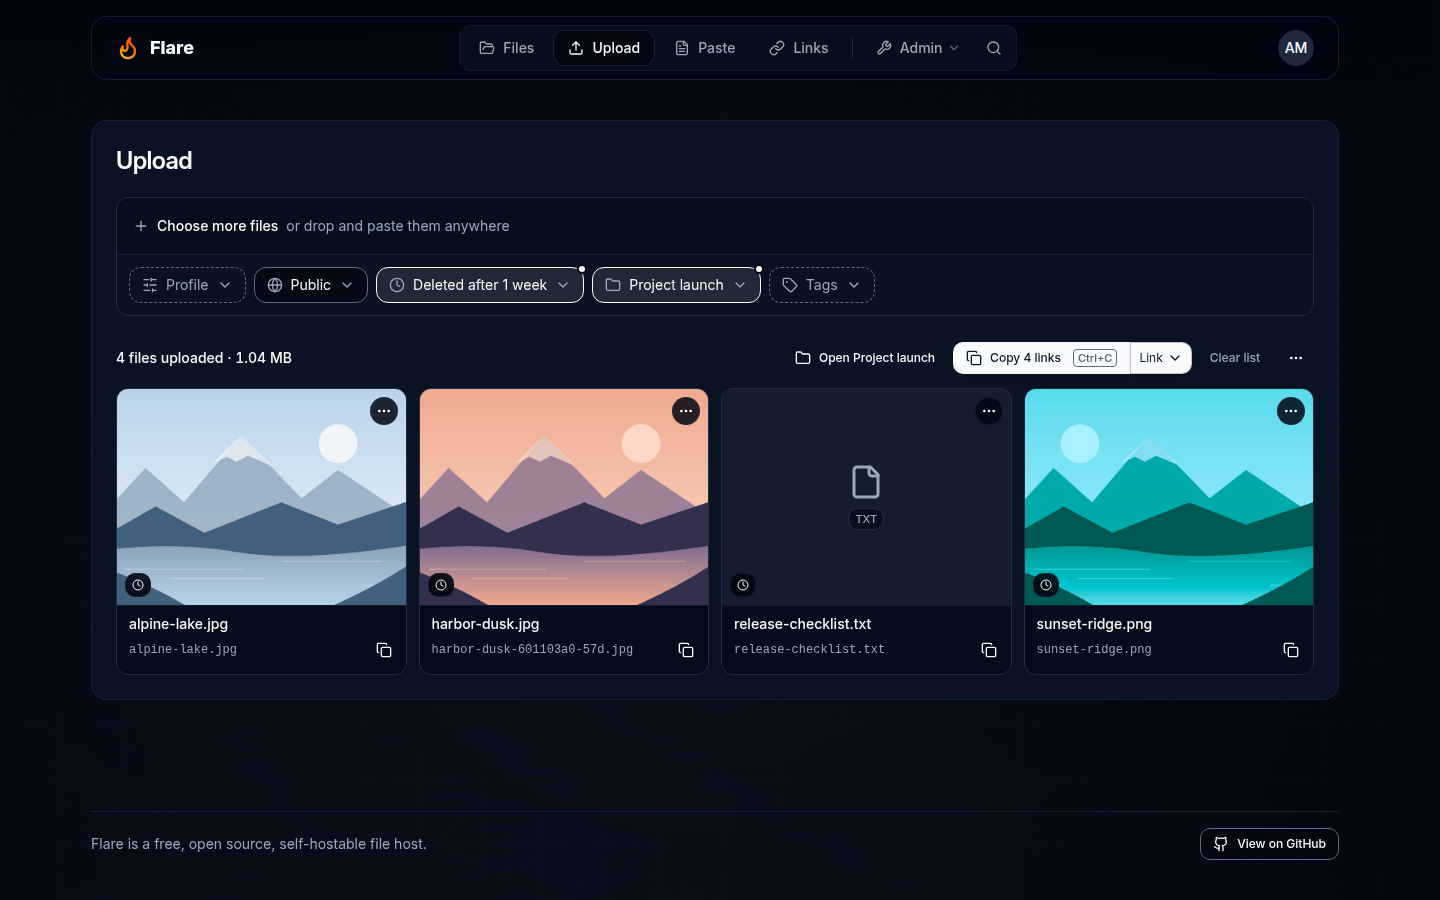
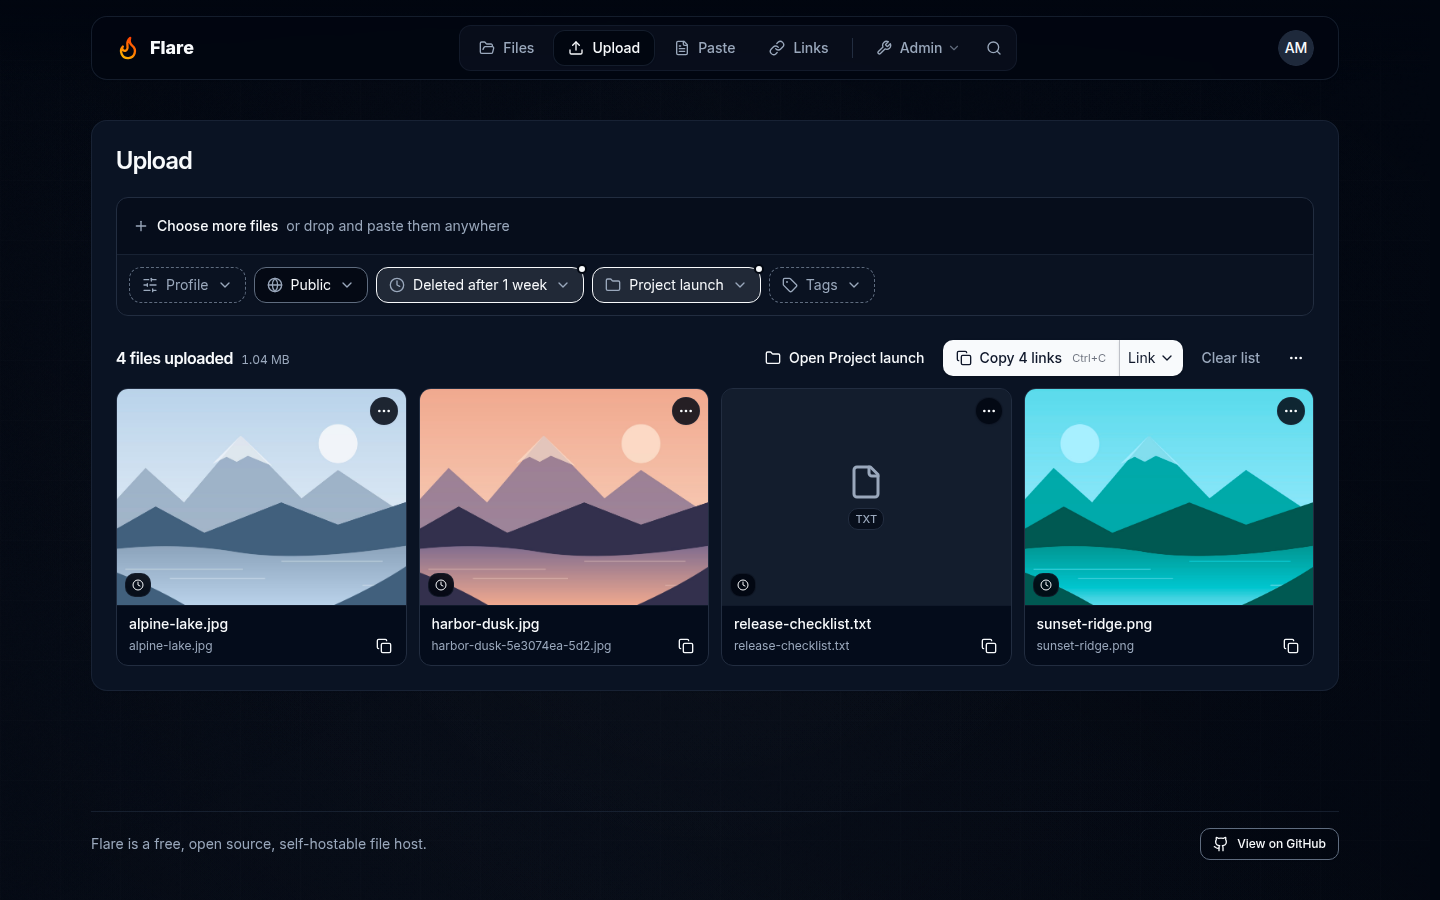
fix(upload): give the Upload tab a type scale
Below the page title everything sat at 14px, so the batch heading read as
body text and Copy was smaller than the chips. The batch heading is now a
16px section heading with its size, speed or failures quieter beside it,
Earlier a sub-heading, the batch actions full-size, card meta the same
small muted sans as Files, and a failure's technical detail muted under its
cause. The speed shows once, in the heading.

diff --git a/components/upload/upload-form.tsx b/components/upload/upload-form.tsx
@@ -522,21 +522,29 @@ export function UploadForm({
   )
 
   const waiting = newest.filter(({ status }) => status === 'waiting').length
-  const status = held.length
-    ? `${files(held.length)} waiting`
+  // The batch's heading says where it stands; the detail beside it is quieter.
+  const [status, detail]: [string, string | null] = held.length
+    ? [`${files(held.length)} waiting`, null]
     : paused
-      ? `Paused · ${waiting} waiting`
+      ? ['Paused', `${waiting} waiting`]
       : going
         ? [
             `Uploading ${Math.min(done.length + failedCount + 1, newest.length)} of ${newest.length}`,
-            sending?.speed ? formatSpeed(sending.speed) : null,
-            sending?.speed ? remaining((total - sent) / sending.speed) : null,
+            sending?.speed
+              ? [
+                  formatSpeed(sending.speed),
+                  remaining((total - sent) / sending.speed),
+                ]
+                  .filter(Boolean)
+                  .join(' · ')
+              : null,
           ]
-            .filter(Boolean)
-            .join(' · ')
         : failed
-          ? `${done.length} of ${newest.length} uploaded · ${failedCount} failed`
-          : `${files(done.length)} uploaded · ${formatBytes(total)}`
+          ? [
+              `${done.length} of ${newest.length} uploaded`,
+              `${failedCount} failed`,
+            ]
+          : [`${files(done.length)} uploaded`, formatBytes(total)]
   const publicDone = done.filter(
     (file) => file.outcome?.visibility === 'PUBLIC' && file.result?.id
   )
@@ -615,7 +623,7 @@ export function UploadForm({
               <Plus className="h-4 w-4" aria-hidden="true" />
               Choose files
             </Button>
-            <p className="mt-3 text-sm text-muted-foreground">
+            <p className="mt-2 text-xs text-muted-foreground">
               Up to {formatBytes(maxSize)} each
             </p>
             {tips && <UploadTips shown={tips} onHide={() => void hideTips()} />}
@@ -654,9 +662,22 @@ export function UploadForm({
           <div className="flex min-h-9 flex-wrap items-center justify-between gap-x-3 gap-y-2">
             <h2
               id="upload-batch-heading"
-              className="min-w-0 text-sm font-medium tabular-nums"
+              className="min-w-0 text-base font-semibold tracking-tight tabular-nums"
             >
               {status}
+              {detail && (
+                <span
+                  className={cn(
+                    'ml-2 text-xs font-normal tracking-normal',
+                    failed && !going && !held.length && !paused
+                      ? 'font-medium text-destructive'
+                      : 'text-muted-foreground'
+                  )}
+                >
+                  <span className="sr-only">, </span>
+                  {detail}
+                </span>
+              )}
             </h2>
             <p className="sr-only" aria-live="polite">
               {done.length
@@ -668,7 +689,7 @@ export function UploadForm({
             </p>
             <div className="flex w-full flex-wrap items-center gap-1.5 sm:w-auto">
               {batchFolder && done.length > 0 && (
-                <Button asChild variant="ghost" size="sm">
+                <Button asChild variant="ghost" className="px-3">
                   <Link href={libraryHref({ folder: batchFolder.id })}>
                     <Folder className="h-4 w-4" aria-hidden="true" />
                     Open {batchFolder.name}
@@ -677,8 +698,8 @@ export function UploadForm({
               )}
               {pausedBy !== null && (
                 <Button
-                  size="sm"
                   variant="outline"
+                  className="px-3"
                   onClick={() => tray.retry(pausedBy)}
                 >
                   <RotateCw className="h-4 w-4" aria-hidden="true" />
@@ -687,7 +708,7 @@ export function UploadForm({
               )}
               {held.length > 0 ? (
                 <Button
-                  size="sm"
+                  className="px-3"
                   disabled={'held' in settings}
                   onClick={() => tray.release(settings)}
                 >
@@ -698,13 +719,12 @@ export function UploadForm({
                 done.length > 0 && (
                   <div className="flex flex-1 items-center sm:flex-none">
                     <Button
-                      size="sm"
-                      className="flex-1 rounded-r-none focus-visible:z-10 sm:flex-none"
+                      className="flex-1 rounded-r-none px-3 focus-visible:z-10 sm:flex-none"
                       onClick={() => void copy(done)}
                     >
                       <Copy className="h-4 w-4" aria-hidden="true" />
                       {copyLabel}
-                      <kbd className="ml-1 hidden rounded border border-current/30 px-1 font-sans text-[11px] leading-4 opacity-70 [@media(pointer:fine)]:sm:inline">
+                      <kbd className="ml-0.5 hidden font-sans text-[11px] font-normal leading-4 opacity-60 [@media(pointer:fine)]:sm:inline">
                         {copyKey}
                       </kbd>
                     </Button>
@@ -719,8 +739,7 @@ export function UploadForm({
               {finished && (
                 <Button
                   variant="ghost"
-                  size="sm"
-                  className="text-muted-foreground max-sm:hidden"
+                  className="px-3 text-muted-foreground max-sm:hidden"
                   onClick={() => tray.clear()}
                   title="Uploaded files stay in your library"
                 >
@@ -781,12 +800,16 @@ export function UploadForm({
           </ul>
           {earlier.length > 0 && (
             <details className="group !mt-6 border-t border-border/60 pt-4">
-              <summary className="flex cursor-pointer list-none items-center gap-1.5 rounded-sm text-sm text-muted-foreground outline-none hover:text-foreground focus-visible:ring-2 focus-visible:ring-ring [&::-webkit-details-marker]:hidden">
+              <summary className="flex cursor-pointer list-none items-center gap-1.5 rounded-sm text-sm font-semibold outline-none hover:text-foreground/80 focus-visible:ring-2 focus-visible:ring-ring [&::-webkit-details-marker]:hidden">
                 <ChevronRight
-                  className="h-4 w-4 transition-transform group-open:rotate-90 motion-reduce:transition-none"
+                  className="h-4 w-4 text-muted-foreground transition-transform group-open:rotate-90 motion-reduce:transition-none"
                   aria-hidden="true"
                 />
-                Earlier · {files(earlier.length)}
+                Earlier
+                <span className="ml-1 text-xs font-normal tabular-nums text-muted-foreground">
+                  <span className="sr-only">, </span>
+                  {files(earlier.length)}
+                </span>
               </summary>
               <ul className={cn(tileGrid, 'mt-3')}>
                 {earlier.map((file) => (

diff --git a/components/upload/tray-tile.tsx b/components/upload/tray-tile.tsx
@@ -102,7 +102,7 @@ function EndFirst({ text }: { text: string }) {
 
 /** Over the picture, in the same style as the library's cards. */
 const overlayChip =
-  'inline-flex h-6 items-center gap-1 rounded-md border border-border/40 bg-background/90 px-1.5 text-xs tabular-nums backdrop-blur-sm'
+  'inline-flex h-6 items-center gap-1 rounded-md border border-border/40 bg-background/90 px-1.5 text-[11px] font-medium tracking-normal tabular-nums backdrop-blur-sm'
 
 /**
  * One file on the Upload page, as a card like the library's: its picture,
@@ -279,12 +279,15 @@ export function TrayTile({
 
         {failed ? (
           <div className="mt-1 flex flex-col items-start gap-1.5">
-            <p className="flex min-w-0 max-w-full items-start gap-1 text-xs text-destructive">
+            <p
+              className="flex min-w-0 max-w-full items-start gap-1 text-xs leading-snug text-destructive"
+              title={file.reason}
+            >
               <AlertCircle
                 className="mt-px h-3.5 w-3.5 shrink-0"
                 aria-hidden="true"
               />
-              <span className="min-w-0 break-words">{file.reason}</span>
+              <Reason text={file.reason ?? ''} />
             </p>
             {/* Not for a refusal of its type or size: sending it again
                 would only be refused again. */}
@@ -302,9 +305,9 @@ export function TrayTile({
             )}
           </div>
         ) : result ? (
-          <div className="flex min-w-0 items-center gap-1">
+          <div className="mt-0.5 flex min-w-0 items-center gap-1">
             <p
-              className="flex min-w-0 flex-1 font-mono text-xs text-muted-foreground"
+              className="flex min-w-0 flex-1 text-xs text-muted-foreground"
               title={result.link}
             >
               <EndFirst text={endingOf(result.link)} />
@@ -313,7 +316,7 @@ export function TrayTile({
               type="button"
               variant="ghost"
               size="icon"
-              className="-mr-1.5 h-8 w-8 shrink-0"
+              className="-my-1 -mr-1 h-7 w-7 shrink-0"
               aria-label={`Copy ${LINK_FORMAT_NAMES[format].toLowerCase()} for ${name}`}
               title={copied ? 'Copied' : 'Copy'}
               onClick={() => onCopy(format)}
@@ -327,27 +330,35 @@ export function TrayTile({
           </div>
         ) : (
           <p className="mt-0.5 truncate text-xs tabular-nums text-muted-foreground">
-            {finishing ? (
-              'Finishing…'
-            ) : sending ? (
-              // The speed is in the line above on phones.
-              <>
-                <span className="sm:hidden">
-                  {formatTransfer(file.uploaded, file.size, null)}
-                </span>
-                <span className="max-sm:hidden">
-                  {formatTransfer(file.uploaded, file.size, file.speed)}
-                </span>
-              </>
-            ) : status === 'waiting' ? (
-              `${formatBytes(file.size)} · waiting`
-            ) : (
-              formatBytes(file.size)
-            )}
+            {finishing
+              ? 'Finishing…'
+              : sending
+                ? // The speed is said once, in the line above the cards.
+                  formatTransfer(file.uploaded, file.size, null)
+                : status === 'waiting'
+                  ? `${formatBytes(file.size)} · waiting`
+                  : formatBytes(file.size)}
           </p>
         )}
       </div>
     </li>
+  )
+}
+
+/**
+ * Why a file failed: the cause in red, any technical detail after its colon
+ * quieter, so the file's name still leads its card.
+ */
+function Reason({ text }: { text: string }) {
+  const colon = text.indexOf(': ')
+  if (colon < 1) return <span className="min-w-0 break-words">{text}</span>
+  return (
+    <span className="min-w-0 break-words">
+      {text.slice(0, colon + 1)}
+      <span className="line-clamp-2 text-muted-foreground">
+        {text.slice(colon + 2)}
+      </span>
+    </span>
   )
 }
 

diff --git a/components/upload/upload-tips.tsx b/components/upload/upload-tips.tsx
@@ -13,7 +13,7 @@ export type UploadTipsShown = {
 }
 
 const linkClassName =
-  'rounded-sm font-medium text-foreground underline underline-offset-4 hover:text-primary focus-visible:outline-none focus-visible:ring-2 focus-visible:ring-ring'
+  'rounded-sm underline underline-offset-2 hover:text-foreground focus-visible:outline-none focus-visible:ring-2 focus-visible:ring-ring'
 
 /**
  * What makes uploading automatic, at the foot of an empty Upload page: the
@@ -30,7 +30,7 @@ export function UploadTips({
   return (
     <aside
       aria-label="Upload tips"
-      className="mt-8 flex max-w-xl items-center gap-1 text-pretty text-sm text-muted-foreground max-sm:hidden"
+      className="mt-8 flex max-w-xl items-center gap-1 text-pretty text-xs text-muted-foreground max-sm:hidden"
     >
       <p>
         {shown.tools && (
@@ -61,12 +61,12 @@ export function UploadTips({
       <Button
         variant="ghost"
         size="icon"
-        className="h-8 w-8 shrink-0"
+        className="h-7 w-7 shrink-0"
         aria-label="Hide these tips"
         title="Hide these tips"
         onClick={onHide}
       >
-        <X className="h-4 w-4" aria-hidden="true" />
+        <X className="h-3.5 w-3.5" aria-hidden="true" />
       </Button>
     </aside>
   )

diff --git a/components/upload/link-format.tsx b/components/upload/link-format.tsx
@@ -84,7 +84,7 @@ export function LinkFormatMenu({
       <DropdownMenuTrigger asChild disabled={disabled}>
         <Button
           variant={attached ? 'default' : 'ghost'}
-          size="sm"
+          size={attached ? 'default' : 'sm'}
           className={
             attached
               ? 'gap-1 rounded-l-none border-0 border-l border-l-primary-foreground/25 px-2 font-normal focus-visible:z-10'

diff --git a/docs/site/guide/uploading.md b/docs/site/guide/uploading.md
@@ -17,7 +17,7 @@ description: Upload from your browser or clipboard, choose who can open the file
 
 Each file keeps the settings that were showing when you added it. Changing a button affects the files you add next, never a file that is already waiting or sending, so you can upload one batch as public and the next as private without waiting in between. Files you add while others are still uploading join their batch and wait their turn.
 
-Each card shows the file's picture as soon as you add it (an icon and its extension for files that aren't images), dimmed until it has uploaded. While a file uploads, a bar runs along the bottom of its picture with the percentage beside it, and the card shows the bytes sent (and the speed, on wider screens); the line above the cards says which file of how many is going, the speed and about how long is left, and the browser tab's title starts with the percentage. Choose **×** on a waiting or uploading card to cancel it: nothing of it is kept, and Flare frees the parts of a large file it had already received. Once every byte has been sent the card shows a spinner and **Finishing…** while the server stores the file, and it can no longer be cancelled; delete it afterwards if you didn't want it. When a file arrives, its card shows the end of its link with a copy button, and icons on the picture for what it got: a lock when it is private, a key when it has a password and a clock when it expires. Hover over the link to see all of it.
+Each card shows the file's picture as soon as you add it (an icon and its extension for files that aren't images), dimmed until it has uploaded. While a file uploads, a bar runs along the bottom of its picture with the percentage beside it, and the card shows the bytes sent; the heading above the cards says which file of how many is going, with the speed and about how long is left beside it, and the browser tab's title starts with the percentage. Choose **×** on a waiting or uploading card to cancel it: nothing of it is kept, and Flare frees the parts of a large file it had already received. Once every byte has been sent the card shows a spinner and **Finishing…** while the server stores the file, and it can no longer be cancelled; delete it afterwards if you didn't want it. When a file arrives, its card shows the end of its link with a copy button, and icons on the picture for what it got: a lock when it is private, a key when it has a password and a clock when it expires. Hover over the link to see all of it.
 
 A screenshot copied to the clipboard usually reaches the browser as `image.png`, so Flare names it by when you pasted it, for example `Pasted image 2026-11-22 09.05.07.png`. A copied file keeps its own name. Pressing <kbd>Ctrl</kbd>+<kbd>V</kbd> in a text field, an open menu or a dialog pastes there instead. Pasting text instead of a file offers **Make a paste**, which opens [Paste](./pastes) with the text, and pasting a single link offers **Shorten it**, which opens [Links](./short-links) with it filled in. Neither puts the text or link in the address bar.
 
